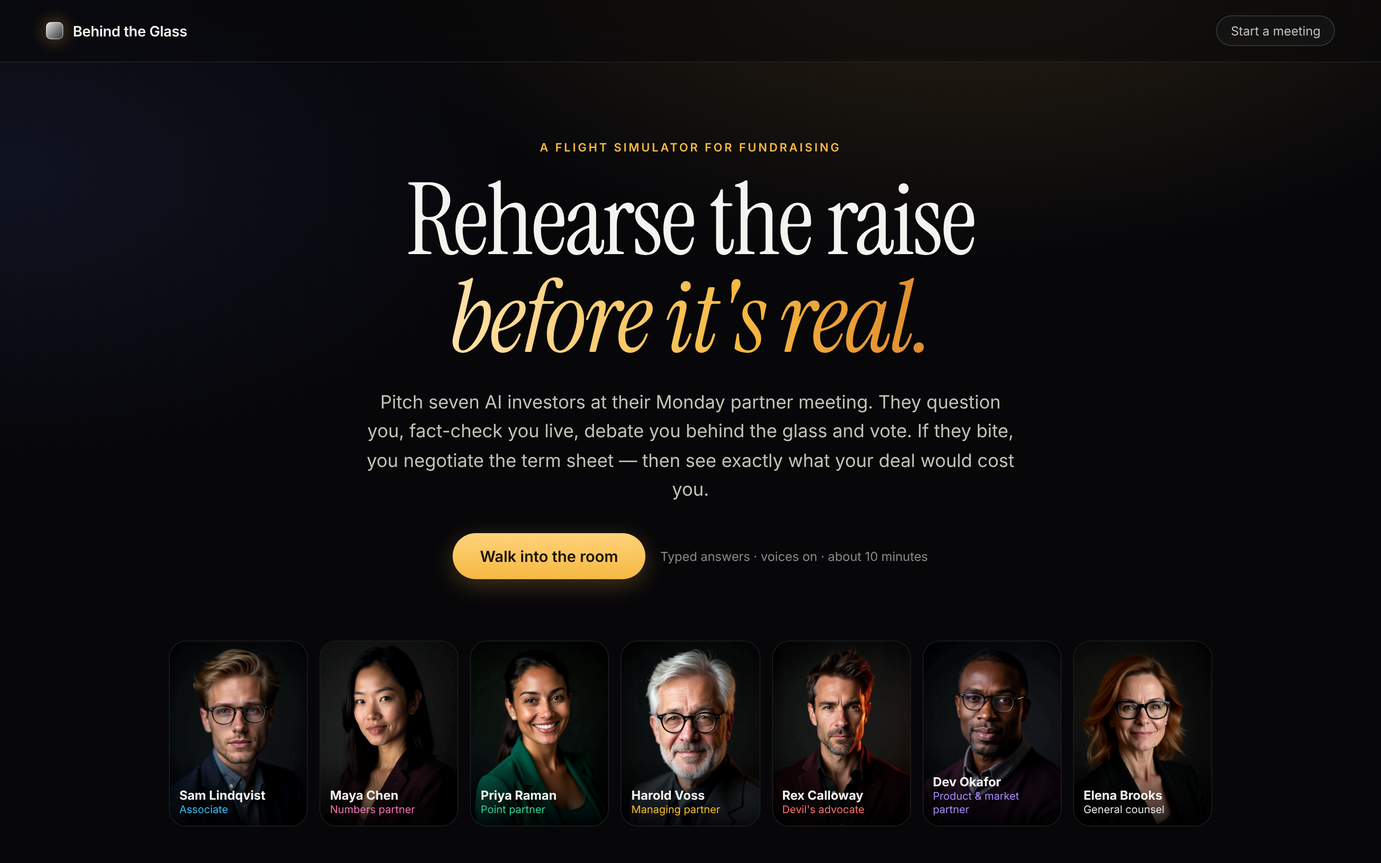
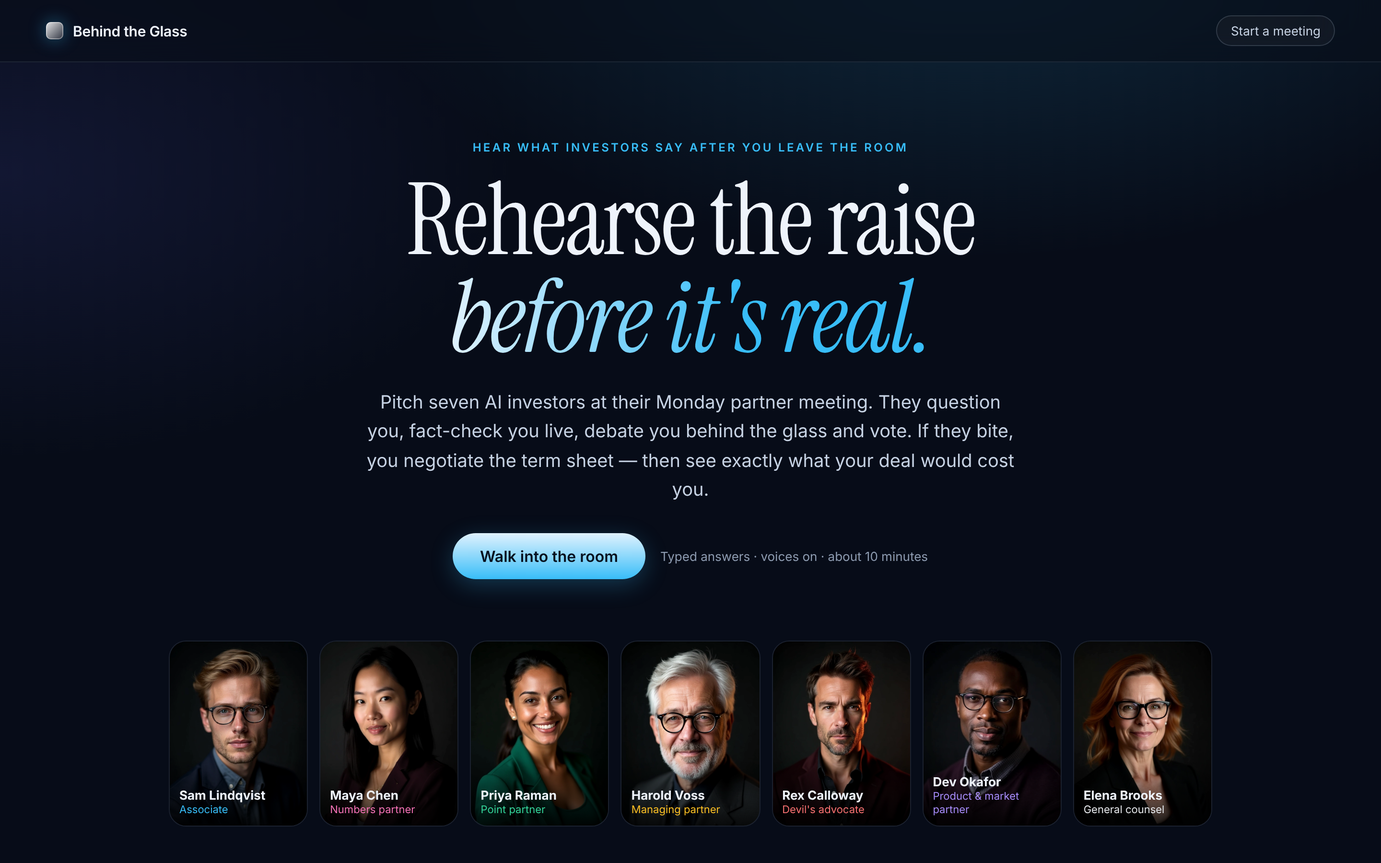
Glass & ink colour scheme and new tagline
Ink-navy surfaces, frosted glass panels and a single sky-blue accent replace
black and gold across the app, the 3D room's light strip and the README
banner; green and red stay reserved for opinions. New tagline: "Hear what
investors say after you leave the room." Refreshed README screenshots and
updated the backlog.

Claude-Session: https://claude.ai/code/session_016sKu27FvAxLNtEmJKz9vQ9

diff --git a/app/src/styles.css b/app/src/styles.css
@@ -1,13 +1,13 @@
 :root {
-  --bg: #07070a;
-  --glass: rgba(18, 18, 24, 0.62);
-  --glass-2: rgba(28, 28, 36, 0.72);
-  --line: rgba(255, 255, 255, 0.08);
-  --line-2: rgba(255, 255, 255, 0.14);
-  --text: #f4f3f0;
-  --text-2: #c3c2b7;
-  --muted: #8b8a84;
-  --accent: #f5b942;
+  --bg: #070c18;
+  --glass: rgba(15, 23, 42, 0.62);
+  --glass-2: rgba(20, 30, 52, 0.72);
+  --line: rgba(148, 163, 184, 0.14);
+  --line-2: rgba(148, 163, 184, 0.24);
+  --text: #eef3fb;
+  --text-2: #c6d2e3;
+  --muted: #8d9bb0;
+  --accent: #38bdf8;
   --good: #34d399;
   --bad: #f87171;
   --serif: "Instrument Serif", Georgia, serif;
@@ -21,8 +21,8 @@ body { margin: 0; background: var(--bg); }
 button { font: inherit; cursor: pointer; }
 button:disabled { opacity: 0.4; cursor: default; }
 a { color: inherit; }
-.primary { background: linear-gradient(180deg, #ffd27a, var(--accent)); color: #1a1205; border: 0; border-radius: 999px; padding: 10px 20px; font-weight: 600; box-shadow: 0 6px 24px rgba(245, 185, 66, 0.25); transition: transform 0.15s, box-shadow 0.15s; }
-.primary:not(:disabled):hover { transform: translateY(-1px); box-shadow: 0 10px 30px rgba(245, 185, 66, 0.35); }
+.primary { background: linear-gradient(180deg, #e0f2fe, var(--accent)); color: #06111f; border: 0; border-radius: 999px; padding: 10px 20px; font-weight: 600; box-shadow: 0 6px 24px rgba(56, 189, 248, 0.25); transition: transform 0.15s, box-shadow 0.15s; }
+.primary:not(:disabled):hover { transform: translateY(-1px); box-shadow: 0 10px 30px rgba(56, 189, 248, 0.35); }
 .primary.lg { padding: 14px 28px; font-size: 16px; }
 .ghost { background: rgba(255, 255, 255, 0.04); color: var(--text-2); border: 1px solid var(--line-2); border-radius: 999px; padding: 7px 14px; font-size: 13px; backdrop-filter: blur(10px); }
 .ghost:hover { color: var(--text); border-color: rgba(255, 255, 255, 0.3); }
@@ -33,16 +33,16 @@ a { color: inherit; }
 .eyebrow { text-transform: uppercase; letter-spacing: 0.18em; font-size: 12px; color: var(--accent); font-weight: 600; }
 .logo { display: flex; align-items: center; gap: 10px; font-weight: 600; letter-spacing: -0.01em; font-size: 15px; white-space: nowrap; }
 .logo em { font-style: normal; color: var(--muted); font-weight: 500; }
-.logo-mark { width: 18px; height: 18px; border-radius: 5px; background: linear-gradient(135deg, rgba(255,255,255,0.9), rgba(255,255,255,0.15)); box-shadow: inset 0 0 0 1px rgba(255,255,255,0.4), 0 0 18px rgba(245,185,66,0.45); }
+.logo-mark { width: 18px; height: 18px; border-radius: 5px; background: linear-gradient(135deg, rgba(255,255,255,0.9), rgba(255,255,255,0.15)); box-shadow: inset 0 0 0 1px rgba(255,255,255,0.4), 0 0 18px rgba(56,189,248,0.45); }
 .avatar { border-radius: 50%; object-fit: cover; flex: none; background: #222; }
 .avatar.ring { box-shadow: 0 0 0 2px var(--bg), 0 0 0 3.5px var(--c); }
 
 /* ---------- landing ---------- */
-.landing { height: 100vh; overflow-y: auto; background: radial-gradient(1100px 600px at 70% -10%, rgba(245,185,66,0.16), transparent 60%), radial-gradient(900px 500px at 0% 20%, rgba(80,110,200,0.12), transparent 60%), var(--bg); }
-.lnav { position: sticky; top: 0; z-index: 5; display: flex; justify-content: space-between; align-items: center; padding: 16px clamp(16px, 4vw, 48px); backdrop-filter: blur(14px); background: rgba(7,7,10,0.55); border-bottom: 1px solid var(--line); }
+.landing { height: 100vh; overflow-y: auto; background: radial-gradient(1100px 600px at 70% -10%, rgba(56,189,248,0.18), transparent 60%), radial-gradient(900px 500px at 0% 20%, rgba(99,102,241,0.12), transparent 60%), var(--bg); }
+.lnav { position: sticky; top: 0; z-index: 5; display: flex; justify-content: space-between; align-items: center; padding: 16px clamp(16px, 4vw, 48px); backdrop-filter: blur(14px); background: rgba(7,12,24,0.55); border-bottom: 1px solid var(--line); }
 .hero { max-width: 1120px; margin: 0 auto; padding: clamp(48px, 9vh, 110px) 16px 40px; text-align: center; }
 .hero h1 { font-family: var(--serif); font-weight: 400; font-size: clamp(48px, 8vw, 104px); line-height: 0.98; letter-spacing: -0.02em; margin: 18px 0 22px; }
-.hero h1 span { font-style: italic; color: transparent; background: linear-gradient(90deg, #ffe2a8, var(--accent) 60%, #e08a2e); -webkit-background-clip: text; background-clip: text; }
+.hero h1 span { font-style: italic; color: transparent; background: linear-gradient(90deg, #e0f2fe, var(--accent) 60%, #38bdf8); -webkit-background-clip: text; background-clip: text; }
 .lede { max-width: 680px; margin: 0 auto; color: var(--text-2); font-size: clamp(16px, 1.6vw, 19px); line-height: 1.6; }
 .hero-cta { margin-top: 30px; display: flex; gap: 16px; align-items: center; justify-content: center; flex-wrap: wrap; }
 .hint { color: var(--muted); font-size: 13px; }
@@ -71,7 +71,7 @@ a { color: inherit; }
 .setup-card p { margin: 0; font-size: 14px; }
 label { display: flex; flex-direction: column; gap: 6px; font-size: 13px; color: var(--text-2); }
 input, textarea, select { font: inherit; background: rgba(0,0,0,0.35); color: var(--text); border: 1px solid var(--line-2); border-radius: 12px; padding: 11px 13px; resize: vertical; outline: none; transition: border-color 0.15s, box-shadow 0.15s; }
-input:focus, textarea:focus, select:focus { border-color: rgba(245,185,66,0.6); box-shadow: 0 0 0 3px rgba(245,185,66,0.15); }
+input:focus, textarea:focus, select:focus { border-color: rgba(56,189,248,0.6); box-shadow: 0 0 0 3px rgba(56,189,248,0.15); }
 .grid2 { display: grid; grid-template-columns: 1fr 1fr; gap: 12px; }
 @media (max-width: 560px) { .grid2 { grid-template-columns: 1fr; } }
 .lfoot { text-align: center; color: var(--muted); font-size: 12px; padding: 30px 16px 40px; border-top: 1px solid var(--line); }
@@ -80,12 +80,12 @@ input:focus, textarea:focus, select:focus { border-color: rgba(245,185,66,0.6); 
 .layout { display: grid; grid-template-columns: 1fr 390px; height: 100vh; background: var(--bg); }
 @media (max-width: 1000px) { .layout { grid-template-columns: 1fr; grid-template-rows: 64vh 36vh; } }
 .stage { position: relative; min-height: 0; overflow: hidden; }
-.topbar { position: absolute; z-index: 30; top: 0; left: 0; right: 0; display: flex; align-items: center; gap: 16px; padding: 14px 18px; background: linear-gradient(rgba(7,7,10,0.85), transparent); }
+.topbar { position: absolute; z-index: 30; top: 0; left: 0; right: 0; display: flex; align-items: center; gap: 16px; padding: 14px 18px; background: linear-gradient(rgba(7,12,24,0.85), transparent); }
 .stepper { display: flex; gap: 6px; list-style: none; margin: 0 auto; padding: 4px; border-radius: 999px; background: var(--glass); border: 1px solid var(--line); backdrop-filter: blur(12px); }
 .stepper li { display: flex; align-items: center; gap: 7px; padding: 5px 12px 5px 6px; border-radius: 999px; font-size: 12.5px; color: var(--muted); white-space: nowrap; }
 .stepper li span { width: 20px; height: 20px; border-radius: 50%; display: grid; place-items: center; font-size: 11px; border: 1px solid var(--line-2); }
-.stepper li.now { background: rgba(245,185,66,0.14); color: var(--text); }
-.stepper li.now span { background: var(--accent); color: #1a1205; border-color: transparent; }
+.stepper li.now { background: rgba(56,189,248,0.14); color: var(--text); }
+.stepper li.now span { background: var(--accent); color: #06111f; border-color: transparent; }
 .stepper li.done { color: var(--text-2); }
 .stepper li.done span { background: rgba(52,211,153,0.2); border-color: rgba(52,211,153,0.5); }
 @media (max-width: 1250px) { .stepper li:not(.now) { font-size: 0; gap: 0; padding-right: 6px; } }
@@ -108,15 +108,15 @@ input:focus, textarea:focus, select:focus { border-color: rgba(245,185,66,0.6); 
 .stance-fill { height: 100%; border-radius: 3px; transition: width 0.7s cubic-bezier(.2,.8,.2,1), background 0.5s; }
 .stance-fill.good { background: var(--good); }
 .stance-fill.bad { background: var(--bad); }
-.stance-fill.mid { background: #e5b74d; }
+.stance-fill.mid { background: #fbbf24; }
 .stance-mid { position: absolute; left: 50%; top: -2px; bottom: -2px; width: 1px; background: rgba(255,255,255,0.35); }
 
-.glass-note { position: absolute; z-index: 20; top: 140px; left: 50%; transform: translateX(-50%); padding: 8px 16px; border-radius: 999px; background: rgba(245,185,66,0.12); border: 1px solid rgba(245,185,66,0.35); color: #ffe2a8; font-size: 13px; backdrop-filter: blur(10px); white-space: nowrap; }
+.glass-note { position: absolute; z-index: 20; top: 140px; left: 50%; transform: translateX(-50%); padding: 8px 16px; border-radius: 999px; background: rgba(56,189,248,0.12); border: 1px solid rgba(56,189,248,0.35); color: #e0f2fe; font-size: 13px; backdrop-filter: blur(10px); white-space: nowrap; }
 
 .composer { position: absolute; z-index: 30; left: 50%; transform: translateX(-50%); bottom: 16px; width: min(780px, calc(100% - 28px)); display: flex; flex-direction: column; gap: 10px; }
 .composer.narrow { left: calc(50% + 160px); width: min(640px, calc(100% - 360px)); }
 @media (max-width: 1250px) { .composer.narrow { left: 50%; width: calc(100% - 28px); } }
-.caption { display: flex; gap: 14px; align-items: center; padding: 14px 16px; border-radius: 18px; background: rgba(8,8,12,0.78); border: 1px solid var(--line-2); backdrop-filter: blur(16px); box-shadow: 0 20px 50px rgba(0,0,0,0.5); animation: rise 0.25s ease-out; }
+.caption { display: flex; gap: 14px; align-items: center; padding: 14px 16px; border-radius: 18px; background: rgba(8,14,28,0.78); border: 1px solid var(--line-2); backdrop-filter: blur(16px); box-shadow: 0 20px 50px rgba(0,0,0,0.5); animation: rise 0.25s ease-out; }
 .caption:not(.muted-cap) { border-color: color-mix(in srgb, var(--c) 55%, transparent); }
 @keyframes rise { from { opacity: 0; transform: translateY(6px); } }
 .caption-who { font-size: 12.5px; font-weight: 600; color: var(--c); }
@@ -124,13 +124,13 @@ input:focus, textarea:focus, select:focus { border-color: rgba(245,185,66,0.6); 
 .caption-text { font-size: 17px; line-height: 1.45; margin-top: 2px; }
 .muted-cap { color: var(--text-2); font-size: 14px; }
 .skip { margin-left: auto; align-self: flex-start; background: transparent; border: 1px solid var(--line-2); color: var(--text-2); border-radius: 999px; padding: 4px 12px; font-size: 12px; }
-.spinner { width: 14px; height: 14px; border-radius: 50%; border: 2px solid rgba(245,185,66,0.25); border-top-color: var(--accent); animation: spin 0.8s linear infinite; }
+.spinner { width: 14px; height: 14px; border-radius: 50%; border: 2px solid rgba(56,189,248,0.25); border-top-color: var(--accent); animation: spin 0.8s linear infinite; }
 @keyframes spin { to { transform: rotate(360deg); } }
-.input { display: flex; flex-direction: column; gap: 8px; padding: 10px; border-radius: 18px; background: rgba(12,12,16,0.82); border: 1px solid var(--line-2); backdrop-filter: blur(16px); }
+.input { display: flex; flex-direction: column; gap: 8px; padding: 10px; border-radius: 18px; background: rgba(12,20,38,0.82); border: 1px solid var(--line-2); backdrop-filter: blur(16px); }
 .input textarea { background: transparent; border: 0; box-shadow: none; padding: 6px 8px; font-size: 15px; resize: none; }
 .input textarea:focus { box-shadow: none; }
 .input-actions { display: flex; justify-content: space-between; align-items: center; }
-.transcript { max-height: 30vh; overflow-y: auto; display: flex; flex-direction: column; gap: 8px; padding: 14px; border-radius: 18px; background: rgba(8,8,12,0.85); border: 1px solid var(--line); backdrop-filter: blur(16px); }
+.transcript { max-height: 30vh; overflow-y: auto; display: flex; flex-direction: column; gap: 8px; padding: 14px; border-radius: 18px; background: rgba(8,14,28,0.85); border: 1px solid var(--line); backdrop-filter: blur(16px); }
 .tline { font-size: 13.5px; line-height: 1.5; color: var(--text-2); }
 .tline b { margin-right: 8px; }
 .tline.me { color: var(--text); }
@@ -140,7 +140,7 @@ input:focus, textarea:focus, select:focus { border-color: rgba(245,185,66,0.6); 
 .ts-head { border-bottom: 2px solid #1c1917; padding-bottom: 8px; margin-bottom: 6px; }
 .ts-kicker { font-size: 9.5px; text-transform: uppercase; letter-spacing: 0.14em; color: #78716c; }
 .ts-firm { font-family: var(--serif); font-size: 22px; }
-.ts-note { font-size: 11.5px; color: #92400e; font-style: italic; margin-top: 4px; }
+.ts-note { font-size: 11.5px; color: #0369a1; font-style: italic; margin-top: 4px; }
 .ts-row { display: flex; justify-content: space-between; gap: 10px; padding: 5px 0; border-bottom: 1px dotted #d6d3d1; }
 .ts-row span { color: #57534e; }
 .ts-row b { text-align: right; font-weight: 600; }
@@ -151,7 +151,7 @@ input:focus, textarea:focus, select:focus { border-color: rgba(245,185,66,0.6); 
 @media (max-width: 1250px) { .termsheet { bottom: auto; top: 140px; transform: scale(0.85); transform-origin: top left; } }
 
 /* ---------- ledger ---------- */
-.ledger { background: #0b0b0f; border-left: 1px solid var(--line); display: flex; flex-direction: column; min-height: 0; }
+.ledger { background: #08101f; border-left: 1px solid var(--line); display: flex; flex-direction: column; min-height: 0; }
 .ledger-head { padding: 18px 18px 12px; border-bottom: 1px solid var(--line); }
 .live { display: inline-flex; align-items: center; gap: 6px; font-size: 11px; font-weight: 600; letter-spacing: 0.12em; text-transform: uppercase; color: var(--bad); }
 .pulse { width: 7px; height: 7px; border-radius: 50%; background: var(--bad); box-shadow: 0 0 0 0 rgba(248,113,113,0.6); animation: pulse 1.6s infinite; }
@@ -170,9 +170,9 @@ input:focus, textarea:focus, select:focus { border-color: rgba(245,185,66,0.6); 
 .kind { color: var(--muted); font-size: 11px; }
 .time { margin-left: auto; color: #57534e; font-size: 11px; font-variant-numeric: tabular-nums; }
 .entry-text { color: var(--text-2); font-size: 13px; line-height: 1.45; }
-.sys-dot { width: 28px; height: 28px; flex: none; border-radius: 50%; display: grid; place-items: center; background: #1b1b22; color: var(--muted); font-size: 13px; }
-.k-whisper { background: linear-gradient(90deg, rgba(245,185,66,0.06), transparent); }
-.k-whisper .entry-text { color: #f3e3c0; font-style: italic; }
+.sys-dot { width: 28px; height: 28px; flex: none; border-radius: 50%; display: grid; place-items: center; background: #16213a; color: var(--muted); font-size: 13px; }
+.k-whisper { background: linear-gradient(90deg, rgba(56,189,248,0.06), transparent); }
+.k-whisper .entry-text { color: #bae6fd; font-style: italic; }
 .k-vote .entry-text, .k-decision .entry-text { color: var(--text); font-weight: 500; }
 .k-fact_check { background: linear-gradient(90deg, rgba(56,189,248,0.07), transparent); }
 .k-weakness .entry-text { color: #fca5a5; }
@@ -180,15 +180,15 @@ input:focus, textarea:focus, select:focus { border-color: rgba(245,185,66,0.6); 
 .k-thought .entry-text { color: #a8a7a0; }
 
 /* ---------- debrief report ---------- */
-.debrief { position: absolute; z-index: 40; inset: 0; background: rgba(5,5,8,0.78); backdrop-filter: blur(10px); overflow-y: auto; padding: 24px 16px; animation: fade 0.4s ease-out; }
+.debrief { position: absolute; z-index: 40; inset: 0; background: rgba(4,8,18,0.78); backdrop-filter: blur(10px); overflow-y: auto; padding: 24px 16px; animation: fade 0.4s ease-out; }
 @keyframes fade { from { opacity: 0; } }
-.report { max-width: 1040px; margin: 0 auto; padding: 28px; border-radius: 22px; background: #111116; border: 1px solid var(--line-2); box-shadow: 0 40px 100px rgba(0,0,0,0.6); }
+.report { max-width: 1040px; margin: 0 auto; padding: 28px; border-radius: 22px; background: #0d1628; border: 1px solid var(--line-2); box-shadow: 0 40px 100px rgba(0,0,0,0.6); }
 .report-head { display: flex; justify-content: space-between; gap: 20px; align-items: flex-start; flex-wrap: wrap; }
 .report-head h2 { font-family: var(--serif); font-weight: 400; font-size: clamp(28px, 3.4vw, 40px); line-height: 1.12; margin: 8px 0 18px; max-width: 720px; }
 .report h3 { font-size: 12px; text-transform: uppercase; letter-spacing: 0.12em; color: var(--muted); margin: 26px 0 12px; font-weight: 600; }
 .tiles { display: grid; grid-template-columns: repeat(3, 1fr); gap: 10px; }
 @media (max-width: 760px) { .tiles { grid-template-columns: 1fr 1fr; } }
-.tile { padding: 16px; border-radius: 14px; background: #16161c; border: 1px solid var(--line); }
+.tile { padding: 16px; border-radius: 14px; background: #111c31; border: 1px solid var(--line); }
 .tile-label { font-size: 12px; color: var(--muted); }
 .tile-value { font-family: var(--serif); font-size: 38px; line-height: 1.1; margin: 6px 0 4px; }
 .tile.good .tile-value { color: var(--good); }
@@ -196,7 +196,7 @@ input:focus, textarea:focus, select:focus { border-color: rgba(245,185,66,0.6); 
 .tile-sub { font-size: 12px; color: var(--muted); line-height: 1.4; }
 .report-grid { display: grid; grid-template-columns: 1fr; gap: 6px; }
 @media (max-width: 900px) { .report-grid { grid-template-columns: 1fr; } }
-.chart { position: relative; padding: 14px; border-radius: 14px; background: #16161c; border: 1px solid var(--line); }
+.chart { position: relative; padding: 14px; border-radius: 14px; background: #111c31; border: 1px solid var(--line); }
 .chart svg { width: 100%; height: auto; display: block; }
 .chart-legend { display: flex; gap: 16px; font-size: 12px; color: var(--text-2); margin-bottom: 6px; }
 .chart-legend i { display: inline-block; width: 10px; height: 10px; border-radius: 3px; margin-right: 6px; vertical-align: -1px; }
@@ -205,31 +205,31 @@ input:focus, textarea:focus, select:focus { border-color: rgba(245,185,66,0.6); 
 .tooltip { position: absolute; right: 14px; top: 12px; max-width: 260px; padding: 8px 10px; border-radius: 10px; background: #000; border: 1px solid var(--line-2); font-size: 12px; color: var(--text-2); }
 .tooltip b { color: var(--text); }
 .multiples { display: grid; grid-template-columns: repeat(auto-fill, minmax(150px, 1fr)); gap: 10px; }
-.mult { padding: 10px; border-radius: 12px; background: #16161c; border: 1px solid var(--line); }
+.mult { padding: 10px; border-radius: 12px; background: #111c31; border: 1px solid var(--line); }
 .mult-head { display: flex; align-items: center; gap: 7px; font-size: 12.5px; }
 .mult-head span { margin-left: auto; font-variant-numeric: tabular-nums; color: var(--text-2); }
 .mult-head span.good { color: var(--good); }
 .mult-head span.bad { color: var(--bad); }
 .mult svg { width: 100%; height: 54px; display: block; margin-top: 6px; }
 .spark { fill: none; stroke: #c3c2b7; stroke-width: 2; stroke-linejoin: round; }
-.spark-dot { fill: #f4f3f0; stroke: #111116; stroke-width: 2; }
+.spark-dot { fill: #f4f3f0; stroke: #0d1628; stroke-width: 2; }
 .feedback { display: grid; grid-template-columns: repeat(auto-fit, minmax(300px, 1fr)); gap: 10px; }
-.fb { display: flex; gap: 12px; padding: 14px; border-radius: 14px; background: #16161c; border: 1px solid var(--line); border-left: 3px solid var(--c); }
+.fb { display: flex; gap: 12px; padding: 14px; border-radius: 14px; background: #111c31; border: 1px solid var(--line); border-left: 3px solid var(--c); }
 .fb b { font-size: 13px; color: var(--c); }
 .fb p { margin: 4px 0 0; font-size: 14px; line-height: 1.5; color: var(--text); }
 .weak { display: flex; flex-wrap: wrap; gap: 8px; }
 .weak span { background: rgba(248,113,113,0.08); border: 1px solid rgba(248,113,113,0.35); color: #fecaca; border-radius: 999px; padding: 5px 13px; font-size: 13px; text-transform: capitalize; }
 .bruin-log { margin-top: 22px; font-size: 12px; color: var(--muted); }
-.bruin-log pre { white-space: pre-wrap; max-height: 200px; overflow: auto; background: #08080b; padding: 12px; border-radius: 10px; border: 1px solid var(--line); }
+.bruin-log pre { white-space: pre-wrap; max-height: 200px; overflow: auto; background: #060b16; padding: 12px; border-radius: 10px; border: 1px solid var(--line); }
 .sim { margin-top: 12px; padding: 14px 16px; border-radius: 14px; background: linear-gradient(90deg, rgba(57,135,229,0.1), transparent); border: 1px solid rgba(57,135,229,0.3); font-size: 14px; line-height: 1.55; color: var(--text-2); }
 .sim b { color: var(--text); }
 .report-actions { display: flex; gap: 10px; align-items: center; }
 .report-grid.single { grid-template-columns: 1fr; }
-.passed { padding: 16px; border-radius: 14px; background: #16161c; border: 1px solid var(--line); }
+.passed { padding: 16px; border-radius: 14px; background: #111c31; border: 1px solid var(--line); }
 .passed h3 { margin-top: 0 !important; }
 .passed p { color: var(--text-2); line-height: 1.55; font-size: 14px; margin: 0; }
 .view-report { position: absolute; z-index: 35; right: 16px; bottom: 150px; }
-.shift { padding: 14px 16px; border-radius: 14px; background: #16161c; border: 1px solid var(--line); }
+.shift { padding: 14px 16px; border-radius: 14px; background: #111c31; border: 1px solid var(--line); }
 .shift-scale { display: flex; justify-content: space-between; font-size: 11px; color: var(--muted); margin: 0 148px 6px 106px; }
 .shift-row { display: grid; grid-template-columns: 96px 1fr 44px 94px; gap: 10px; align-items: center; padding: 7px 0; border-top: 1px solid var(--line); }
 .shift-who { display: flex; align-items: center; gap: 7px; font-size: 13px; font-weight: 600; }
@@ -237,16 +237,16 @@ input:focus, textarea:focus, select:focus { border-color: rgba(245,185,66,0.6); 
 .shift-track::before { content: ""; position: absolute; left: 0; right: 0; top: 50%; height: 2px; background: rgba(255,255,255,0.06); border-radius: 2px; }
 .shift-zero { position: absolute; left: 50%; top: 2px; bottom: 2px; width: 1px; background: rgba(255,255,255,0.3); }
 .shift-bar { position: absolute; top: 50%; height: 4px; margin-top: -2px; border-radius: 4px; opacity: 0.55; }
-.shift-start { position: absolute; top: 50%; width: 10px; height: 10px; margin: -5px 0 0 -5px; border-radius: 50%; background: #111116; border: 2px solid #8b8a84; }
-.shift-end { position: absolute; top: 50%; width: 14px; height: 14px; margin: -7px 0 0 -7px; border-radius: 50%; border: 2px solid #111116; box-shadow: 0 0 0 2px rgba(255,255,255,0.08); }
+.shift-start { position: absolute; top: 50%; width: 10px; height: 10px; margin: -5px 0 0 -5px; border-radius: 50%; background: #0d1628; border: 2px solid #8b8a84; }
+.shift-end { position: absolute; top: 50%; width: 14px; height: 14px; margin: -7px 0 0 -7px; border-radius: 50%; border: 2px solid #0d1628; box-shadow: 0 0 0 2px rgba(255,255,255,0.08); }
 .shift-bar.good, .shift-end.good { background: var(--good); }
 .shift-bar.bad, .shift-end.bad { background: var(--bad); }
-.shift-bar.mid, .shift-end.mid { background: #e5b74d; }
+.shift-bar.mid, .shift-end.mid { background: #fbbf24; }
 .shift-val { font-variant-numeric: tabular-nums; font-size: 13px; text-align: right; color: var(--text-2); }
 .shift-val.good { color: var(--good); } .shift-val.bad { color: var(--bad); }
 .shift-vote { font-size: 12px; font-weight: 600; color: var(--muted); }
 .shift-vote.good { color: var(--good); } .shift-vote.bad { color: var(--bad); }
 .shift-legend { display: flex; gap: 16px; margin-top: 8px; font-size: 11.5px; color: var(--muted); }
 .shift-legend i { display: inline-block; width: 9px; height: 9px; border-radius: 50%; margin-right: 6px; vertical-align: -1px; }
-.dot-start { background: #111116; border: 2px solid #8b8a84; }
+.dot-start { background: #0d1628; border: 2px solid #8b8a84; }
 .dot-end { background: var(--text-2); }

diff --git a/app/src/Room.tsx b/app/src/Room.tsx
@@ -180,7 +180,7 @@ function Skyline() {
       })}
       <mesh position={[0, 12, -40]}>
         <planeGeometry args={[140, 40]} />
-        <meshBasicMaterial color="#141a2b" />
+        <meshBasicMaterial color="#0b1426" />
       </mesh>
     </group>
   );
@@ -204,7 +204,7 @@ function Boardroom({ phase }: { phase: Phase }) {
       </RoundedBox>
       <mesh position={[0, 0.935, 0.85]}>
         <boxGeometry args={[6.8, 0.012, 0.012]} />
-        <meshBasicMaterial color="#fbbf24" toneMapped={false} />
+        <meshBasicMaterial color="#38bdf8" toneMapped={false} />
       </mesh>
       {[-2.6, 2.6].map((x) => (
         <mesh key={x} position={[x, 0.47, 0.15]}>
@@ -284,8 +284,8 @@ function CameraRig({ phase, speaker }: { phase: Phase; speaker: AgentId | null }
 export default function Room(props: { agents: Record<AgentId, AgentView>; phase: Phase; speaking: Speaking; terms: Terms | null }) {
   return (
     <Canvas shadows={!LITE} camera={{ position: [0, 4, 9.6], fov: 50 }} dpr={LITE ? 1 : [1, 1.75]} gl={{ antialias: !LITE }}>
-      <color attach="background" args={["#05060a"]} />
-      <fog attach="fog" args={["#05060a", 18, 60]} />
+      <color attach="background" args={["#050a16"]} />
+      <fog attach="fog" args={["#050a16", 18, 60]} />
       <ambientLight intensity={0.5} />
       <spotLight position={[0, 7, 3]} angle={0.6} penumbra={0.9} intensity={38} castShadow shadow-mapSize={[1024, 1024]} color="#fff1d6" />
       <directionalLight position={[0, 3, 7]} intensity={1.1} color="#ffe9cc" />
@@ -293,7 +293,7 @@ export default function Room(props: { agents: Record<AgentId, AgentView>; phase:
       <Environment resolution={256} frames={1}>
         <Lightformer form="rect" intensity={2} position={[0, 5, 2]} scale={[10, 2, 1]} color="#fff3dc" />
         <Lightformer form="rect" intensity={1.2} position={[-6, 2, -4]} scale={[4, 6, 1]} color="#7aa2ff" />
-        <Lightformer form="ring" intensity={1.5} position={[5, 3, 4]} scale={2} color="#fbbf24" />
+        <Lightformer form="ring" intensity={1.5} position={[5, 3, 4]} scale={2} color="#38bdf8" />
       </Environment>
       <CameraRig phase={props.phase} speaker={props.speaking?.speaker ?? null} />
       <Skyline />

diff --git a/app/src/App.tsx b/app/src/App.tsx
@@ -268,7 +268,7 @@ function Landing({ onStart, error }: { onStart: (i: StartupInfo) => void; error:
         </button>
       </nav>
       <section className="hero">
-        <div className="eyebrow">A flight simulator for fundraising</div>
+        <div className="eyebrow">Hear what investors say after you leave the room</div>
         <h1>
           Rehearse the raise
           <br />

diff --git a/docs/BACKLOG.md b/docs/BACKLOG.md
@@ -1,14 +1,13 @@
 # Backlog — feedback from test runs (to do after the full test run)
 
 ## Open
-- Tagline: reconsider "A flight simulator for fundraising". Candidates:
-  "The partner meeting before the partner meeting." · "Hear what investors say after you leave the room." (recommended) ·
-  "Fundraising practice with seven AI investors."
-- Colour scheme: move away from black + gold (reads as luxury/casino). Candidates:
-  Glass & ink (ink navy, frosted glass whites, one teal accent; green/red only for opinion) — recommended ·
-  Term sheet (paper, ink, red-pen accent, light theme) · Boardroom (forest green, brass, cream).
+- (none)
 
 ## Done
+- Tagline: "Hear what investors say after you leave the room."
+- Colour scheme: Glass & ink (ink navy, frosted glass, sky-blue accent; green/red only for opinion).
+- Partners walk to the huddle once, after the managing partner's line; steady camera.
+- Debrief: opinion start→end chart, pass tiles, feedback from all seven.
 - All seven investor cards fit on screen.
 - Voices: natural per-investor voices via Runware, slightly slower.
 - "Copperline Ventures" sign visible below the card strip.

diff --git a/README.md b/README.md
@@ -11,7 +11,7 @@
   <img alt="License: MIT" src="https://img.shields.io/badge/license-MIT-e5e7eb?style=flat-square" />
 </p>
 
-<p align="center"><b>A flight simulator for fundraising.</b><br/>
+<p align="center"><b>Hear what investors say after you leave the room.</b><br/>
 Pitch seven AI investors at their Monday partner meeting. They question you, fact-check you live, debate you behind the glass and vote.
 If they bite, you negotiate a real term sheet. Then a Bruin pipeline prices your deal against real market data — and the panel remembers you next time.</p>
 
